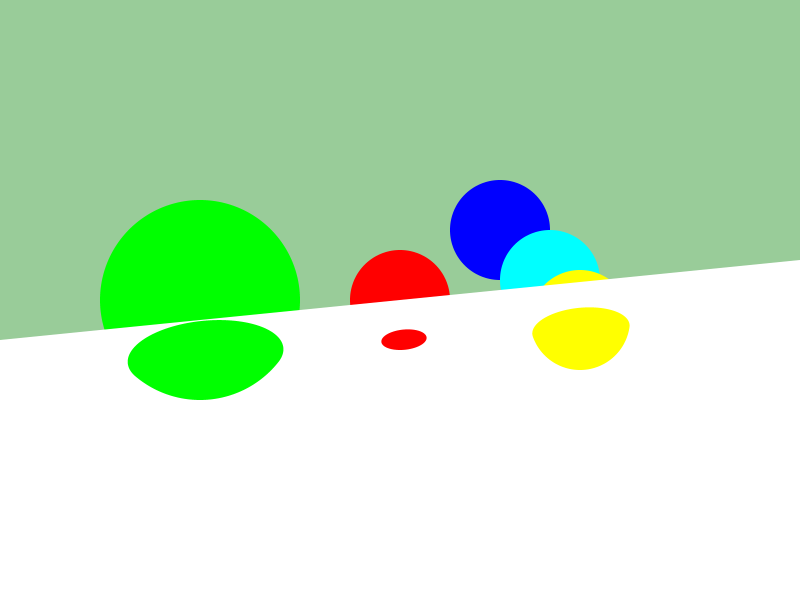
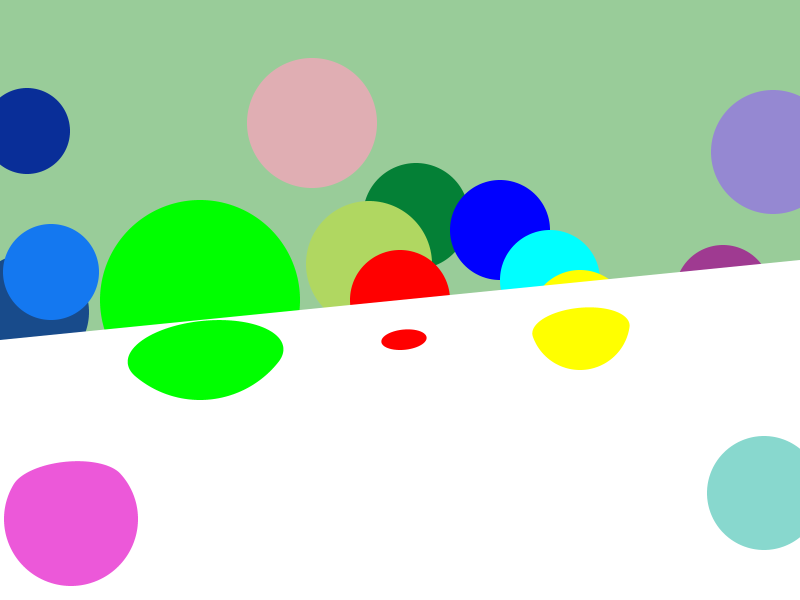
random shapes

diff --git a/src/main/java/com/idklomg/raytracerj/App.java b/src/main/java/com/idklomg/raytracerj/App.java
@@ -3,9 +3,11 @@ package com.idklomg.raytracerj;
 import java.awt.image.BufferedImage;
 import java.io.File;
 import java.io.IOException;
+import java.util.ArrayList;
 import java.util.Iterator;
 import java.util.List;
 import java.util.Optional;
+import java.util.Random;
 import java.util.concurrent.TimeUnit;
 import java.util.concurrent.atomic.AtomicLong;
 
@@ -54,38 +56,53 @@ public final class App {
 
     BufferedImage img = new BufferedImage(WIDTH, HEIGHT, BufferedImage.TYPE_INT_RGB);
 
+    Random random = new Random();
+
     List<GeometricObject> shapes =
-        ImmutableList.of(
-            Sphere.newBuilder()
-                .setCenter(Point3D.create(0, 0, -100))
-                .setRadius(50)
-                .setColor(Color.create(0xFF0000))
-                .build(),
-            Sphere.newBuilder()
-                .setCenter(Point3D.create(-200, 0, -100))
-                .setRadius(100)
-                .setColor(Color.create(0x00FF00))
-                .build(),
-            Sphere.newBuilder()
-                .setCenter(Point3D.create(100, -70, -220))
-                .setRadius(50)
-                .setColor(Color.create(0x0000FF))
-                .build(),
-            Sphere.newBuilder()
-                .setCenter(Point3D.create(150, -20, -160))
-                .setRadius(50)
-                .setColor(Color.create(0x00FFFF))
-                .build(),
-            Sphere.newBuilder()
-                .setCenter(Point3D.create(180, 20, -100))
-                .setRadius(50)
-                .setColor(Color.create(0xFFFF00))
-                .build(),
-            Plane.newBuilder()
-                .setPoint(Point3D.create(0, 50, -100))
-                .setNormal(Normal.create(0.1, 1, 0.5))
-                .setColor(Color.create(0xFFFFFF))
-                .build());
+        new ArrayList<>(
+          ImmutableList.of(
+              Sphere.newBuilder()
+                  .setCenter(Point3D.create(0, 0, -100))
+                  .setRadius(50)
+                  .setColor(Color.create(0xFF0000))
+                  .build(),
+              Sphere.newBuilder()
+                  .setCenter(Point3D.create(-200, 0, -100))
+                  .setRadius(100)
+                  .setColor(Color.create(0x00FF00))
+                  .build(),
+              Sphere.newBuilder()
+                  .setCenter(Point3D.create(100, -70, -220))
+                  .setRadius(50)
+                  .setColor(Color.create(0x0000FF))
+                  .build(),
+              Sphere.newBuilder()
+                  .setCenter(Point3D.create(150, -20, -160))
+                  .setRadius(50)
+                  .setColor(Color.create(0x00FFFF))
+                  .build(),
+              Sphere.newBuilder()
+                  .setCenter(Point3D.create(180, 20, -100))
+                  .setRadius(50)
+                  .setColor(Color.create(0xFFFF00))
+                  .build(),
+              Plane.newBuilder()
+                  .setPoint(Point3D.create(0, 50, -100))
+                  .setNormal(Normal.create(0.1, 1, 0.5))
+                  .setColor(Color.create(0xFFFFFF))
+                  .build()));
+    for (int i = 0; i < 20; i++) {
+      shapes.add(
+          Sphere.newBuilder()
+              .setCenter(
+                  Point3D.create(
+                      random.nextInt(WIDTH) - WIDTH / 2,
+                      random.nextInt(HEIGHT) - HEIGHT / 2,
+                      -1 * random.nextInt(1000) - 50))
+              .setRadius(random.nextInt(75))
+              .setColor(Color.create(random.nextInt(0x1000000)))
+              .build());
+    }
 
     AtomicLong count = new AtomicLong();
     int width = img.getWidth();
